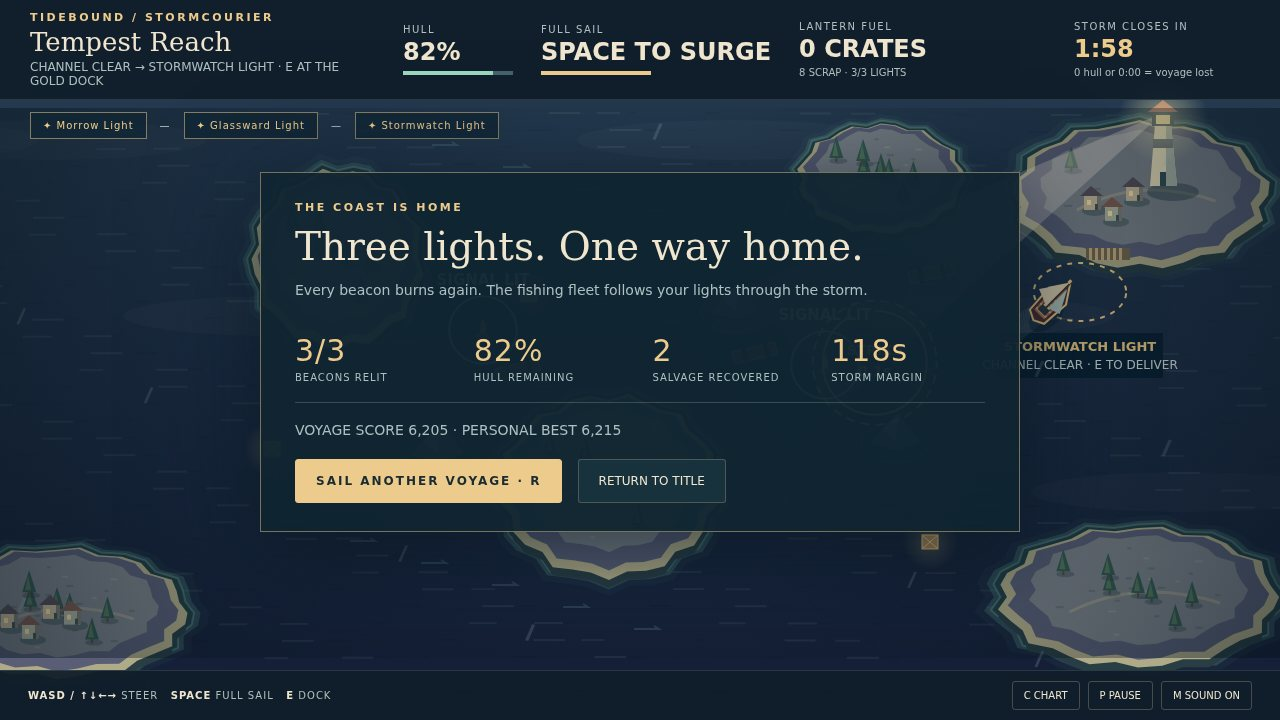
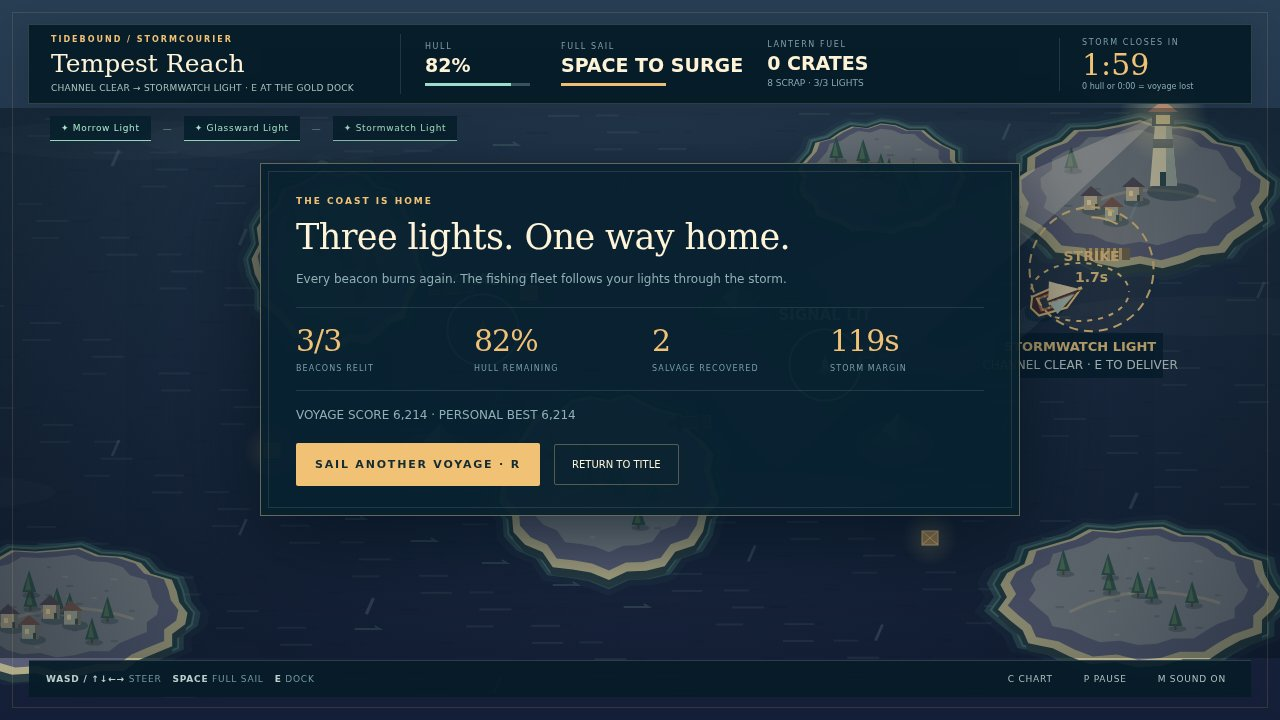
Redesign nautical UI and add original cinematic title scene

diff --git a/game/style.css b/game/style.css
@@ -1,77 +1,94 @@
 * { box-sizing: border-box; }
-:root { color-scheme: dark; --gold: #edcb8d; --cream: #f0e6cf; --muted: #adc1c1; --ink: #101e2a; --mint: #9bd7bd; }
-body { margin: 0; background: #080f18; color: var(--cream); font-family: 'Segoe UI', system-ui, sans-serif; overflow: hidden; }
-button { font: inherit; cursor: pointer; color: var(--cream); border: 1px solid #c6bb954d; background: #17313d; border-radius: 3px; transition: background .15s, border-color .15s; }
-button:hover { background: #2a4851; border-color: var(--gold); }
-button:focus-visible { outline: 3px solid var(--mint); outline-offset: 4px; }
-button:disabled { opacity: .43; cursor: default; }
-button.primary { background: var(--gold); color: #1a2c32; border-color: var(--gold); padding: 18px 24px; font-size: 15px; letter-spacing: 2px; font-weight: 800; }
-button.primary:hover { background: #ffe3aa; }
-[hidden] { display: none !important; }
-#viewport { position: absolute; width: 100vw; height: 100vh; display: grid; place-items: center; }
-#stage { position: relative; width: 1280px; height: 720px; flex-shrink: 0; transform-origin: center; overflow: hidden; background: #173e49; box-shadow: 0 12px 90px #000; }
-canvas { position: absolute; inset: 0; }
-.eyebrow { color: var(--gold); font-size: 11px; font-weight: 700; letter-spacing: 2.5px; }
-#hud { position: absolute; top: 0; left: 0; width: 100%; height: 100px; padding: 20px 30px; display: flex; align-items: center; gap: 28px; background: #101e2af2; border-bottom: 1px solid #b4c3b62b; }
-.identity { width: 345px; display: grid; gap: 3px; }
-.identity strong { font: 26px Georgia, serif; }
-#mission { color: var(--muted); font-size: 12px; }
-.instrument { min-width: 110px; display: grid; gap: 4px; }
-.instrument > span { color: var(--muted); font-size: 10px; letter-spacing: 1.5px; }
-.instrument > strong { font: 600 24px system-ui; line-height: 1.1; }
-.instrument small { color: #acc0bd; font-size: 10px; }
-.supply { min-width: 135px; }
-.clock { margin-left: auto; min-width: 176px; }
-.clock strong { color: var(--gold); font-variant-numeric: tabular-nums; }
-.meter { height: 4px; background: #45616c; margin-top: 2px; width: 110px; }
-.meter i { display: block; height: 100%; background: var(--mint); transition: width .1s; }
-#sail-meter { background: var(--gold); }
-#voyage-path { position: absolute; top: 112px; left: 30px; display: flex; align-items: center; gap: 13px; font-size: 10px; letter-spacing: 1px; color: #c5d4ce; }
-.path-node { padding: 7px 12px; border: 1px solid #9cbdb755; background: #102634cc; }
-.path-node.lit { color: var(--gold); border-color: #edcb8d88; }
-.path-node.current { background: #edcb8d; color: #18303a; }
-.title-panel { position: absolute; left: 0; top: 0; width: 630px; height: 720px; padding: 55px 0 20px 60px; background: linear-gradient(90deg, #101e2afa 55%, #101e2ae6 78%, #101e2a00); }
-h1 { font: 72px Georgia, serif; letter-spacing: 2px; font-weight: normal; line-height: .96; margin: 30px 0 28px; color: #f5e8c9; }
-h1 span { display: block; font: 17px system-ui; font-weight: 500; letter-spacing: 10px; margin-top: 14px; color: var(--gold); }
-.premise { font: 27px/1.3 Georgia, serif; margin: 0 0 18px; }
-.description { color: var(--muted); font-size: 14px; line-height: 1.7; margin: 0 0 26px; }
-#start { min-width: 286px; text-align: left; }
-#start span { float: right; font-size: 21px; line-height: 18px; }
-.title-rules { display: flex; gap: 29px; margin-top: 25px; color: var(--muted); font-size: 10px; letter-spacing: 1.1px; }
-.title-rules b { color: var(--gold); display: block; font-size: 25px; font-weight: 500; margin-bottom: 4px; }
-.controls-title { color: #a7bcba; font-size: 11px; line-height: 1.9; margin-top: 25px; }
-.controls-title b { font-weight: 600; color: #d5dfd2; }
-.fine { display: block; color: #7c9697; font-size: 10px; margin-top: 17px; }
-#controls { position: absolute; bottom: 0; left: 0; right: 0; height: 50px; background: #101e2af2; border-top: 1px solid #9cbdb72e; display: flex; align-items: center; justify-content: space-between; padding: 0 28px; font-size: 10px; color: #b0c0bb; letter-spacing: 1px; }
-#controls b { color: var(--cream); font-weight: 600; }
-#controls div { display: flex; gap: 8px; }
-#controls button { font-size: 10px; padding: 8px 11px; background: transparent; }
-body.title #controls > span, body.title #chart-button, body.title #pause-button { visibility: hidden; }
-#notice { position: absolute; bottom: 70px; left: 50%; transform: translateX(-50%); width: max-content; max-width: 850px; text-align: center; padding: 12px 22px; background: #101e2aeb; border: 1px solid #ccb98c66; color: #f1dbac; font-size: 13px; box-shadow: 0 6px 30px #05151d66; }
-#dock-prompt { position: absolute; bottom: 142px; left: 50%; transform: translateX(-50%); display: flex; gap: 14px; align-items: center; padding: 15px 23px; background: #f0d397; color: #19313a; font-size: 14px; letter-spacing: 1px; box-shadow: 0 4px 20px #0d2537aa; }
-#dock-prompt small { font-size: 10px; letter-spacing: .5px; }
-kbd { border: 1px solid currentColor; padding: 7px 10px; font: bold 18px system-ui; }
-.modal { position: absolute; top: 172px; left: 260px; width: 760px; padding: 28px 34px; background: #102431f5; border: 1px solid #bda77b99; box-shadow: 0 18px 100px #061420bb; }
-.modal h2 { font: 39px Georgia, serif; margin: 10px 0 10px; color: var(--cream); }
-.modal p { color: var(--muted); font-size: 14px; line-height: 1.6; margin: 9px 0 17px; }
-.summary { display: flex; gap: 25px; padding: 15px 0 19px; border-bottom: 1px solid #94aba34d; margin-bottom: 16px; }
-.summary > div { flex: 1; color: var(--muted); font-size: 10px; letter-spacing: 1px; }
-.summary strong { display: block; color: var(--gold); font-size: 30px; margin-bottom: 4px; font-weight: 500; }
-.shop { display: flex; gap: 10px; margin: 18px 0; }
-.shop button { flex: 1; text-align: left; padding: 14px 12px; min-height: 86px; }
-.shop b { display: block; color: var(--gold); font-size: 13px; margin-bottom: 8px; }
-.shop small { color: #bccbc2; font-size: 11px; line-height: 1.5; }
-.route-row { display: flex; gap: 15px; align-items: center; margin: 17px 0 20px; }
-.route-row button { padding: 10px 13px; font-size: 12px; color: var(--gold); }
-.route-row span { font-size: 12px; color: var(--muted); max-width: 380px; line-height: 1.5; }
-.modal .primary { padding: 14px 20px; font-size: 12px; }
-.modal .secondary { padding: 14px 20px; font-size: 12px; margin-left: 10px; }
-#chart { position: absolute; left: 700px; top: 162px; width: 520px; padding: 23px; border: 1px solid #b9a575; background: #172c38f7; box-shadow: 0 20px 60px #071825b0; }
-#chart h2 { font: 30px Georgia, serif; margin: 7px 0 15px; }
-#chart p { font-size: 12px; color: var(--muted); line-height: 1.6; }
-.chart-row { display: flex; align-items: center; gap: 16px; border-top: 1px solid #9aada044; padding: 14px 0; }
-.chart-row .badge { border: 1px solid #c5b07c; color: var(--gold); width: 33px; height: 33px; display: grid; place-items: center; }
-.chart-row strong { font-size: 14px; }
-.chart-row small { display: block; color: #a9bdb6; margin-top: 4px; font-size: 11px; }
-#close-chart { padding: 10px 20px; width: 100%; margin-top: 12px; font-size: 11px; }
-.loss-label { color: #eda28e; }
+:root { color-scheme:dark; --gold:#f1c176; --cream:#fff3d8; --muted:#9fb5ba; --ink:#071a26; --mint:#9edfd0; --line:#a3bfb52b; }
+body { margin:0; overflow:hidden; background:#030d16; color:var(--cream); font-family:'Trebuchet MS','Segoe UI',sans-serif; }
+button { font:inherit; cursor:pointer; border:1px solid #e3cd9a55; color:var(--cream); background:#102e3a; border-radius:2px; transition:background .15s,transform .15s; }
+button:hover { background:#214653; border-color:var(--gold); }
+button:active { transform:translateY(1px); }
+button:focus-visible { outline:3px solid var(--mint); outline-offset:4px; }
+button:disabled { opacity:.38; cursor:not-allowed; }
+button.primary { background:var(--gold); color:#152b32; border:0; padding:17px 24px; font-size:13px; letter-spacing:1.8px; font-weight:800; }
+button.primary:hover { background:#ffe1a4; }
+[hidden] { display:none !important; }
+#viewport { position:absolute; width:100vw; height:100vh; }
+#stage { position:relative; width:1280px; height:720px; transform-origin:center; overflow:hidden; background:#102e3a; }
+#stage::after { content:''; pointer-events:none; position:absolute; inset:12px; border:1px solid #f1c17625; z-index:15; }
+canvas { position:absolute; inset:0; }
+.eyebrow { color:var(--gold); font-size:10px; font-weight:700; letter-spacing:2.4px; line-height:1.4; }
+/* The title is a real interactive scene, not a separate poster. */
+.title-panel { position:absolute; inset:0 auto 0 0; width:655px; padding:64px 0 30px 64px; background:linear-gradient(90deg,#061923f5 0%,#071b27ed 58%,#071b2700 100%); }
+.title-panel>.eyebrow { display:flex; align-items:center; gap:14px; color:#b4cbc8; font-size:10px; letter-spacing:3px; }
+.title-panel>.eyebrow::before { content:'✦'; color:var(--gold); font-size:20px; }
+h1 { margin:46px 0 27px; font:normal 91px/.86 Georgia,'Times New Roman',serif; letter-spacing:-4px; color:#fff0ce; text-shadow:0 3px 30px #0005; }
+h1 span { display:block; margin:20px 0 0 4px; font:700 13px/1.2 'Trebuchet MS',sans-serif; color:var(--gold); letter-spacing:11px; }
+.premise { font:25px/1.35 Georgia,serif; color:#f4e6c7; margin:0 0 17px; }
+.description { color:#9fb7bc; font-size:13px; line-height:1.8; margin:0 0 28px; max-width:420px; }
+#start { width:310px; text-align:left; height:56px; box-shadow:0 8px 32px #020d1340; }
+#start span { float:right; font-size:22px; margin-top:-3px; }
+.title-rules { display:flex; gap:27px; margin-top:27px; color:#a6bdbe; font-size:9px; letter-spacing:1.4px; }
+.title-rules span { padding-right:25px; border-right:1px solid var(--line); }
+.title-rules span:last-child { border:0; }
+.title-rules b { color:var(--cream); display:inline; font:24px Georgia,serif; margin-right:8px; letter-spacing:0; }
+.controls-title { color:#93aeb4; font-size:10px; line-height:2; margin-top:26px; }
+.controls-title b { color:#d0ded7; font-size:10px; font-weight:700; }
+.fine { display:block; color:#647f88; font-size:9px; letter-spacing:.35px; margin-top:14px; }
+/* Playing HUD: instruments frame the sea without covering it. */
+#hud { position:absolute; left:28px; right:28px; top:24px; height:80px; display:flex; align-items:center; gap:24px; padding:12px 22px; background:#061c28f5; border:1px solid #b8d0c036; box-shadow:0 10px 40px #0002; }
+.identity { width:350px; flex-shrink:0; display:grid; gap:4px; border-right:1px solid var(--line); padding-right:16px; }
+.identity .eyebrow { font-size:8px; letter-spacing:2px; }
+.identity strong { font:25px Georgia,serif; }
+#mission { color:#a9c4bd; font-size:9px; line-height:1.35; max-width:310px; letter-spacing:.25px; }
+.instrument { min-width:112px; display:grid; gap:4px; }
+.instrument>span { color:#7f9ea6; font-size:8px; letter-spacing:1.6px; }
+.instrument>strong { font:600 19px/1.1 'Trebuchet MS',sans-serif; font-variant-numeric:tabular-nums; }
+.instrument small { color:#8aabb1; font-size:9px; }
+.supply { min-width:126px; }
+.clock { margin-left:auto; min-width:170px; border-left:1px solid var(--line); padding-left:22px; }
+.clock strong { color:var(--gold); font:30px/.9 Georgia,serif; }
+.clock small { font-size:8px; }
+.meter { height:3px; width:105px; margin-top:3px; background:#365560; }
+.meter i { display:block; height:100%; background:var(--mint); transition:width .1s; }
+#sail-meter { background:var(--gold); }
+#voyage-path { position:absolute; top:116px; left:50px; display:flex; gap:12px; align-items:center; color:#71959c; font-size:9px; }
+.path-node { padding:7px 11px; color:#8faeb3; background:#071f2bdf; border-bottom:1px solid #9eb5ad33; font-size:9px; letter-spacing:.7px; }
+.path-node.current { color:var(--gold); border-color:var(--gold); }
+.path-node.lit { color:#ace6ca; border-color:#94d7bc; }
+#controls { position:absolute; bottom:23px; left:29px; right:29px; height:37px; display:flex; justify-content:space-between; align-items:center; padding:0 17px; background:#061b28ed; border-top:1px solid #c0cdbf33; color:#73979f; font-size:9px; letter-spacing:.8px; }
+#controls b { color:#bbcfcb; font-weight:600; }
+#controls div { display:flex; gap:15px; }
+#controls button { padding:7px 8px; border:0; background:none; font-size:9px; color:#aac0c0; letter-spacing:.8px; }
+body.title #controls { background:none; border:0; }
+body.title #controls>span,body.title #chart-button,body.title #pause-button { visibility:hidden; }
+#notice { position:absolute; bottom:76px; left:50%; transform:translateX(-50%); padding:12px 24px; background:#061e2bf2; color:#ecd4a0; border:1px solid #d0b57760; max-width:860px; font-size:11px; text-align:center; box-shadow:0 8px 20px #00101950; }
+#dock-prompt { position:absolute; bottom:136px; left:50%; transform:translateX(-50%); display:flex; gap:17px; align-items:center; background:#efd09c; color:#193039; padding:15px 23px; font-size:12px; letter-spacing:1px; box-shadow:0 12px 40px #0005; }
+#dock-prompt small { font-size:9px; letter-spacing:.25px; }
+kbd { padding:7px 10px; border:1px solid currentColor; font:700 17px 'Trebuchet MS',sans-serif; }
+/* Harbor journal and real voyage results. */
+.modal { position:absolute; left:260px; top:163px; width:760px; padding:31px 35px 29px; background:#08212ff7; border:1px solid #d3b7807a; box-shadow:0 20px 90px #00101bcc; }
+.modal::before { content:''; position:absolute; inset:7px; border:1px solid #e4c99824; pointer-events:none; }
+.modal>.eyebrow { letter-spacing:2px; font-size:9px; }
+.modal h2 { margin:10px 0 14px; font:35px/1.1 Georgia,serif; letter-spacing:-.6px; }
+.modal p { color:#91b0b6; font-size:12px; line-height:1.65; margin:11px 0 17px; }
+.summary { display:flex; padding:15px 0 17px; margin-bottom:15px; border-top:1px solid var(--line); border-bottom:1px solid var(--line); gap:24px; }
+.summary>div { flex:1; color:#779ca5; font-size:8px; letter-spacing:1.1px; }
+.summary strong { display:block; margin-bottom:6px; font:30px Georgia,serif; color:var(--gold); letter-spacing:-1px; }
+.shop { display:grid; grid-template-columns:repeat(3,1fr); gap:11px; margin:18px 0; }
+.shop button { position:relative; min-height:100px; text-align:left; padding:18px 13px 14px; background:#163544; border-color:#9ab6b33a; }
+.shop button:hover { background:#214756; }
+.shop b { display:block; color:#e8d5ad; font-size:11px; line-height:1.5; letter-spacing:.5px; margin-bottom:7px; }
+.shop small { color:#91adb2; font-size:10px; line-height:1.6; }
+.route-row { display:flex; gap:16px; align-items:center; margin:18px 0 23px; }
+.route-row button { padding:12px; min-width:190px; color:var(--gold); font-size:10px; background:#061a25; }
+.route-row span { color:#86a8ae; font-size:10px; line-height:1.7; }
+.modal .primary { padding:15px 19px; font-size:11px; }
+.modal .secondary { background:transparent; padding:14px 17px; margin-left:9px; font-size:10px; }
+.loss-label { color:#efab98; }
+#chart { position:absolute; top:160px; right:54px; width:520px; padding:25px; background:#ece1c4; color:#223e44; border:1px solid #fff0c8; box-shadow:0 18px 80px #00121baa; }
+#chart .eyebrow { color:#8a5e35; }
+#chart h2 { font:29px Georgia,serif; margin:8px 0 17px; color:#25434a; }
+#chart p { font-size:11px; line-height:1.65; color:#536b68; }
+.chart-row { display:flex; gap:15px; align-items:center; padding:15px 0; border-top:1px solid #728b7c55; }
+.chart-row .badge { display:grid; place-items:center; width:32px; height:32px; flex-shrink:0; border:1px solid #967346; border-radius:50%; color:#785126; font:21px Georgia,serif; }
+.chart-row strong { font-size:12px; }
+.chart-row small { display:block; margin-top:5px; font-size:10px; color:#637b75; line-height:1.5; }
+#close-chart { margin-top:12px; width:100%; padding:12px; background:#173a43; color:#f6e9c7; font-size:10px; letter-spacing:1px; }
+@media(prefers-reduced-motion:reduce) { button,.meter i { transition:none; } }

diff --git a/game/src/title-scene.js b/game/src/title-scene.js
@@ -1,0 +1,82 @@
+// A dedicated, original title-screen seascape. This is the real menu renderer.
+import { polygon, ellipse, drawBoat, drawIsland } from './coastal-art.js';
+import { REGIONS } from './regions.js';
+
+function paintSky(ctx, time) {
+  const sky = ctx.createLinearGradient(0, 0, 0, 390);
+  sky.addColorStop(0, '#082332');
+  sky.addColorStop(.58, '#326373');
+  sky.addColorStop(1, '#c4b290');
+  ctx.fillStyle = sky;
+  ctx.fillRect(0, 0, 1280, 390);
+  ellipse(ctx, 1010, 158, 57, 57, '#f5dfac');
+  ellipse(ctx, 1014, 156, 51, 51, '#f2ddb0');
+  for (let i = 0; i < 7; i++) {
+    const x = 560 + i * 118 + Math.sin(time * .035 + i) * 12;
+    ellipse(ctx, x, 90 + i % 3 * 46, 150, 12, '#98b1ae0d');
+  }
+  polygon(ctx, [[440,370],[558,283],[620,302],[703,211],[769,271],
+    [838,244],[918,314],[1033,222],[1140,272],[1280,205],[1280,420]], '#3b6269');
+  polygon(ctx, [[500,383],[640,331],[724,362],[843,291],[928,326],
+    [1090,284],[1180,341],[1280,302],[1280,430]], '#244d59');
+  ctx.strokeStyle = '#182f3c'; ctx.lineWidth = 1.5;
+  for (let i = 0; i < 5; i++) {
+    const x = 750 + i * 37, y = 130 + Math.sin(i * 5) * 17;
+    ctx.beginPath(); ctx.moveTo(x - 5,y + 1);ctx.quadraticCurveTo(x,y - 5,x + 5,y + 1);ctx.stroke();
+  }
+}
+
+function paintWater(ctx, time) {
+  const sea = ctx.createLinearGradient(0, 350, 0, 720);
+  sea.addColorStop(0, '#547b7d');sea.addColorStop(.2, '#1f515d');sea.addColorStop(1, '#081f30');
+  ctx.fillStyle = sea;ctx.fillRect(0, 355, 1280, 365);
+  for (let i = 0; i < 68; i++) {
+    const y = 365 + i * 5.3;
+    const x = 470 + (i * 173.7) % 900;
+    const length = 13 + (i * 31) % 90;
+    ctx.fillStyle = i % 4 === 0 ? '#e7d8a333' : '#afd1c217';
+    ctx.fillRect(x + Math.sin(time * .4 + i) * 8, y, length, 1 + (i % 3 === 0));
+  }
+  for (let i = 0; i < 24; i++) {
+    const y = 365 + i * 7;
+    ctx.fillStyle = `rgba(247,218,158,${.15 * (1 - i / 24)})`;
+    ctx.fillRect(1000 - i * 2 + Math.sin(time + i) * 8, y, 18 + i * 4, 2);
+  }
+}
+
+function paintHeadland(ctx, time) {
+  polygon(ctx, [[970,432],[1003,384],[1095,372],[1176,404],[1280,406],[1280,720],
+    [1200,688],[1158,579],[1068,539],[1032,474]], '#152d37');
+  polygon(ctx, [[985,428],[1018,384],[1100,377],[1182,404],[1280,406],
+    [1280,444],[1162,450],[1078,443]], '#78826b');
+  polygon(ctx, [[1034,454],[1078,443],[1162,450],[1280,444],[1280,483],
+    [1170,478],[1094,469]], '#33474a');
+  for (let i = 0; i < 27; i++) {
+    const x = 1050 + (i * 43) % 220, y = 470 + i * 6;
+    ctx.fillStyle = i % 2 ? '#71827b31' : '#030f223e';
+    ctx.fillRect(x,y,20 + i % 7 * 3,2);
+  }
+  // Scale the game's own island/lighthouse art into the menu composition.
+  ctx.save();ctx.translate(1092,383);ctx.scale(2.05,2.05);
+  drawIsland(ctx, {x:0,y:0,rx:58,ry:21,light:true,village:true},
+    {...REGIONS[0],land:'#6a795f',grass:'#7e8d6e'}, time, true);
+  ctx.restore();
+}
+
+export function drawTitleScene(ctx, time) {
+  paintSky(ctx, time);paintWater(ctx, time);paintHeadland(ctx, time);
+  // The courier vessel stays the same design as the playable boat.
+  ctx.save();ctx.translate(813,550 + Math.sin(time * .65) * 3);ctx.scale(2.05,2.05);
+  drawBoat(ctx,{x:0,y:0,angle:-.63,fullSail:true,invulnerable:0},time);ctx.restore();
+  ctx.strokeStyle = '#bad4c54a';ctx.lineWidth = 2;
+  for (let i = 0; i < 3; i++) {
+    ctx.beginPath();ctx.ellipse(811,578 + i * 13,48 + i * 22,8,0,.1,Math.PI * .9);ctx.stroke();
+  }
+  const fade=ctx.createLinearGradient(0,0,0,720);
+  fade.addColorStop(0,'#04131d25');fade.addColorStop(.7,'#04131d00');fade.addColorStop(1,'#04131dd9');
+  ctx.fillStyle=fade;ctx.fillRect(0,0,1280,720);
+  ctx.fillStyle='#b7c9bb';ctx.textAlign='right';ctx.font='10px Trebuchet MS';
+  ctx.fillText('THE MORROW ARCHIPELAGO',1218,632);
+  ctx.fillStyle='#6f989f';ctx.font='9px Trebuchet MS';
+  ctx.fillText('THREE LIGHTS BETWEEN THE COAST AND THE STORM',1218,650);
+}

diff --git a/game/src/main.js b/game/src/main.js
@@ -2,6 +2,7 @@ import { createVoyage, startVoyage, interact, chooseDock } from './campaign.js';
 import { REGIONS, distance } from './regions.js';
 import { updateSailing } from './sailing.js';
 import { drawWorld } from './coastal-art.js';
+import { drawTitleScene } from './title-scene.js';
 import { unlockAudio, toggleSound, playCue } from './audio.js';
 import { pauseScreen, dockScreen, resultScreen, voyageScore } from './screens.js';
 
@@ -92,7 +93,8 @@ function frame(time) {
     left: keys.has('a') || keys.has('arrowleft'), right: keys.has('d') || keys.has('arrowright'),
     up: keys.has('w') || keys.has('arrowup'), down: keys.has('s') || keys.has('arrowdown'), boost: keys.has(' '),
   }, dt);
-  drawWorld(context, state, time / 1000);
+  if (state.phase === 'title') drawTitleScene(context, time / 1000);
+  else drawWorld(context, state, time / 1000);
   for (const event of state.events.splice(0)) playCue(event);
   updateInterface(); requestAnimationFrame(frame);
 }
